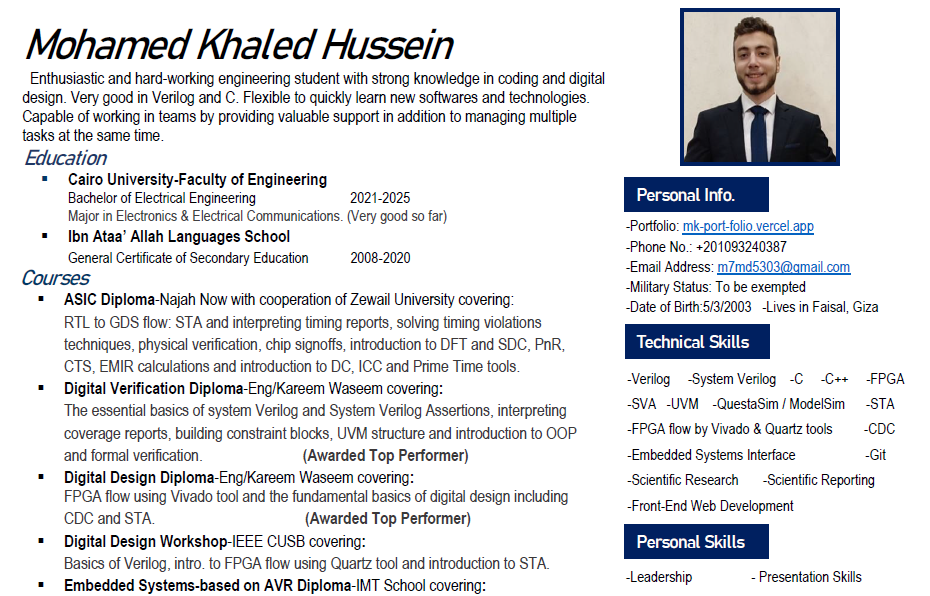
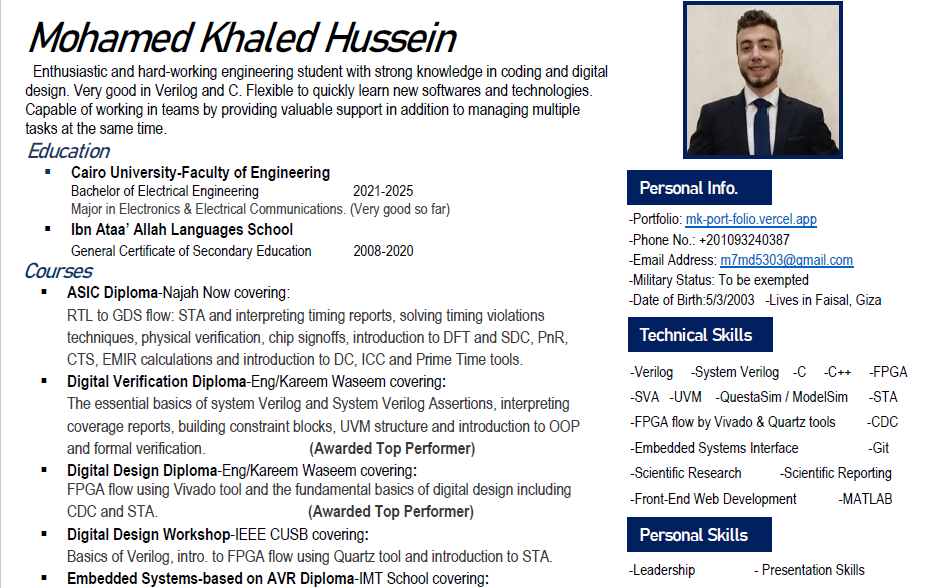
cv adding matlab

Changed region(s): [[0.0, 0.0306, 0.6555, 1.0], [0.6555, 0.0, 0.9989, 0.8571], [0.6555, 0.8878, 0.9365, 0.9796]]

diff --git a/src/Components/About.jsx b/src/Components/About.jsx
@@ -117,7 +117,7 @@ export default function About() {
     <div className='cvtxt'>
 <h1>My C.V.</h1>
 <p>Eventually, you can easily view my updated C.V. from the link below.😃</p>
-<Link to="https://drive.google.com/file/d/1WWDWqHG6okYhq7N8T8Xepcod4pqY4mpx/view?usp=sharing">M.K. C.V. </Link>
+<Link to="https://drive.google.com/file/d/1NWk3-aC53wKEOR1T-HJHDAtHd3DJSRMa/view?usp=sharing">M.K. C.V. </Link>
     </div>
     <img src={cv}alt='Loading⏳'/>
 </div>
